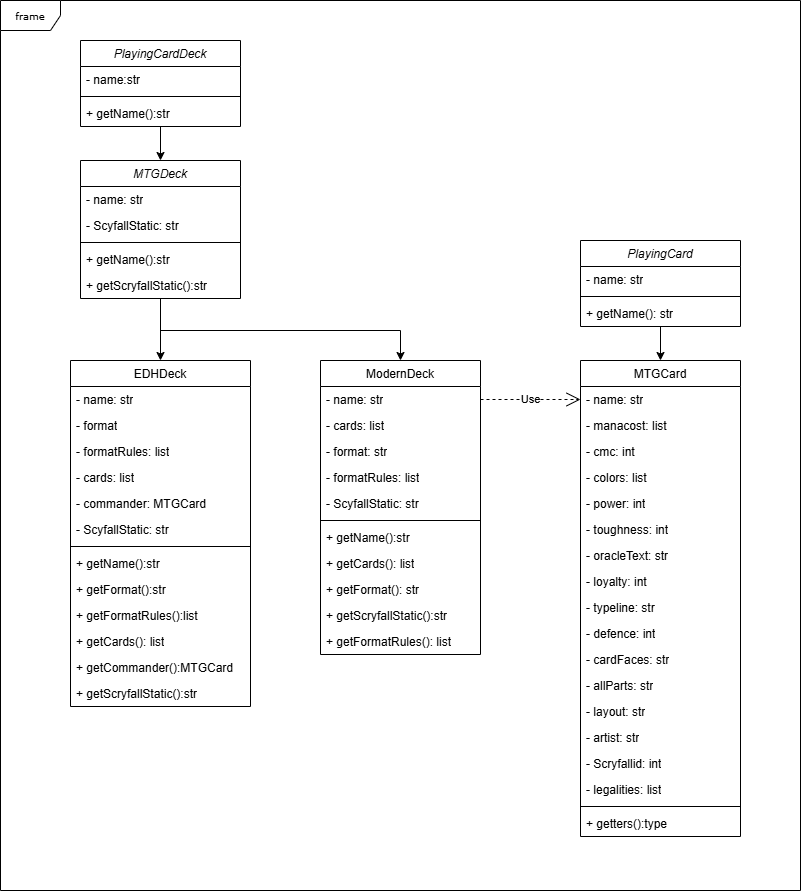
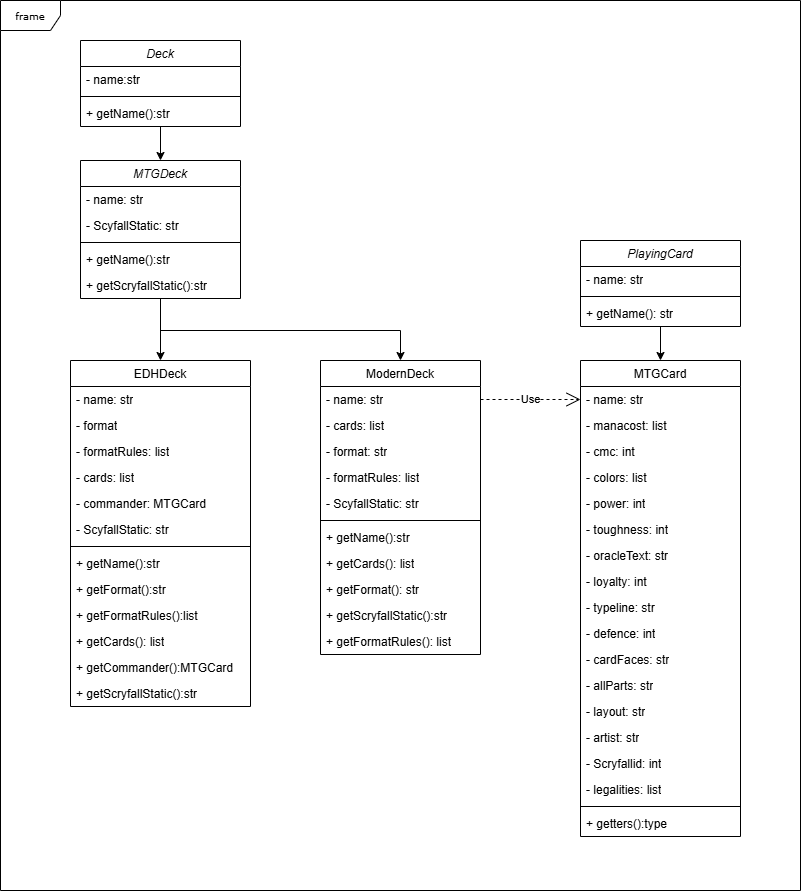
Abstract MTGDeck and UML update for naming

diff --git a/code/MTGDeck.py b/code/MTGDeck.py
@@ -1,16 +1,31 @@
-from typing import Generic, TypeVar, List
+from typing import TypeVar
 from PlayingCard import PlayingCard  # Assuming MTGCard inherits from PlayingCard
+from Deck import Deck
+from abc import ABC, abstractmethod
 
 # Define a TypeVar for the card type
 T = TypeVar("T", bound=PlayingCard)  # T must be a subclass of PlayingCard
 
 
-class MTGdeck(Generic[T]):
+class MTGdeck(Deck, ABC):
     """Class representing a deck of Magic: The Gathering cards."""
 
-    def __init__(self):
-        self.cards: List[T] = []  # List to hold cards of type T
+    def __init__(self, name: str, scryfallStatic: str) -> None:
+        super().__init__(name)
+        self.name = name
+        self.scryfallStatic = scryfallStatic
 
+    @abstractmethod
+    def getName(self) -> str:
+        """Return the name of the deck."""
+        return self.name
+
+    @abstractmethod
+    def getScryfallStatic(self) -> str:
+        """Return the Scryfall static URL."""
+        return self.scryfallStatic
+
+    @abstractmethod
     def add_card(self, card: T) -> None:
         """Add a card to the deck."""
         if len(self.cards) < 60:
@@ -18,12 +33,14 @@ class MTGdeck(Generic[T]):
         else:
             raise ValueError("Deck already contains 60 cards.")
 
+    @abstractmethod
     def shuffle(self) -> None:
         """Shuffle the deck."""
         import random
 
         random.shuffle(self.cards)
 
+    @abstractmethod
     def draw_card(self) -> T:
         """Draw a card from the top of the deck."""
         if self.cards:

diff --git a/code/Deck.py b/code/Deck.py
@@ -1,0 +1,17 @@
+from abc import ABC, abstractmethod
+
+
+class Deck(ABC):
+    """Abstract base class for a Deck."""
+
+    def __init__(
+        self,
+        name: str,
+    ):
+
+        self.name = name
+
+    @abstractmethod
+    def __str__(self) -> str:
+        """Return a string representation of the deck."""
+        pass
